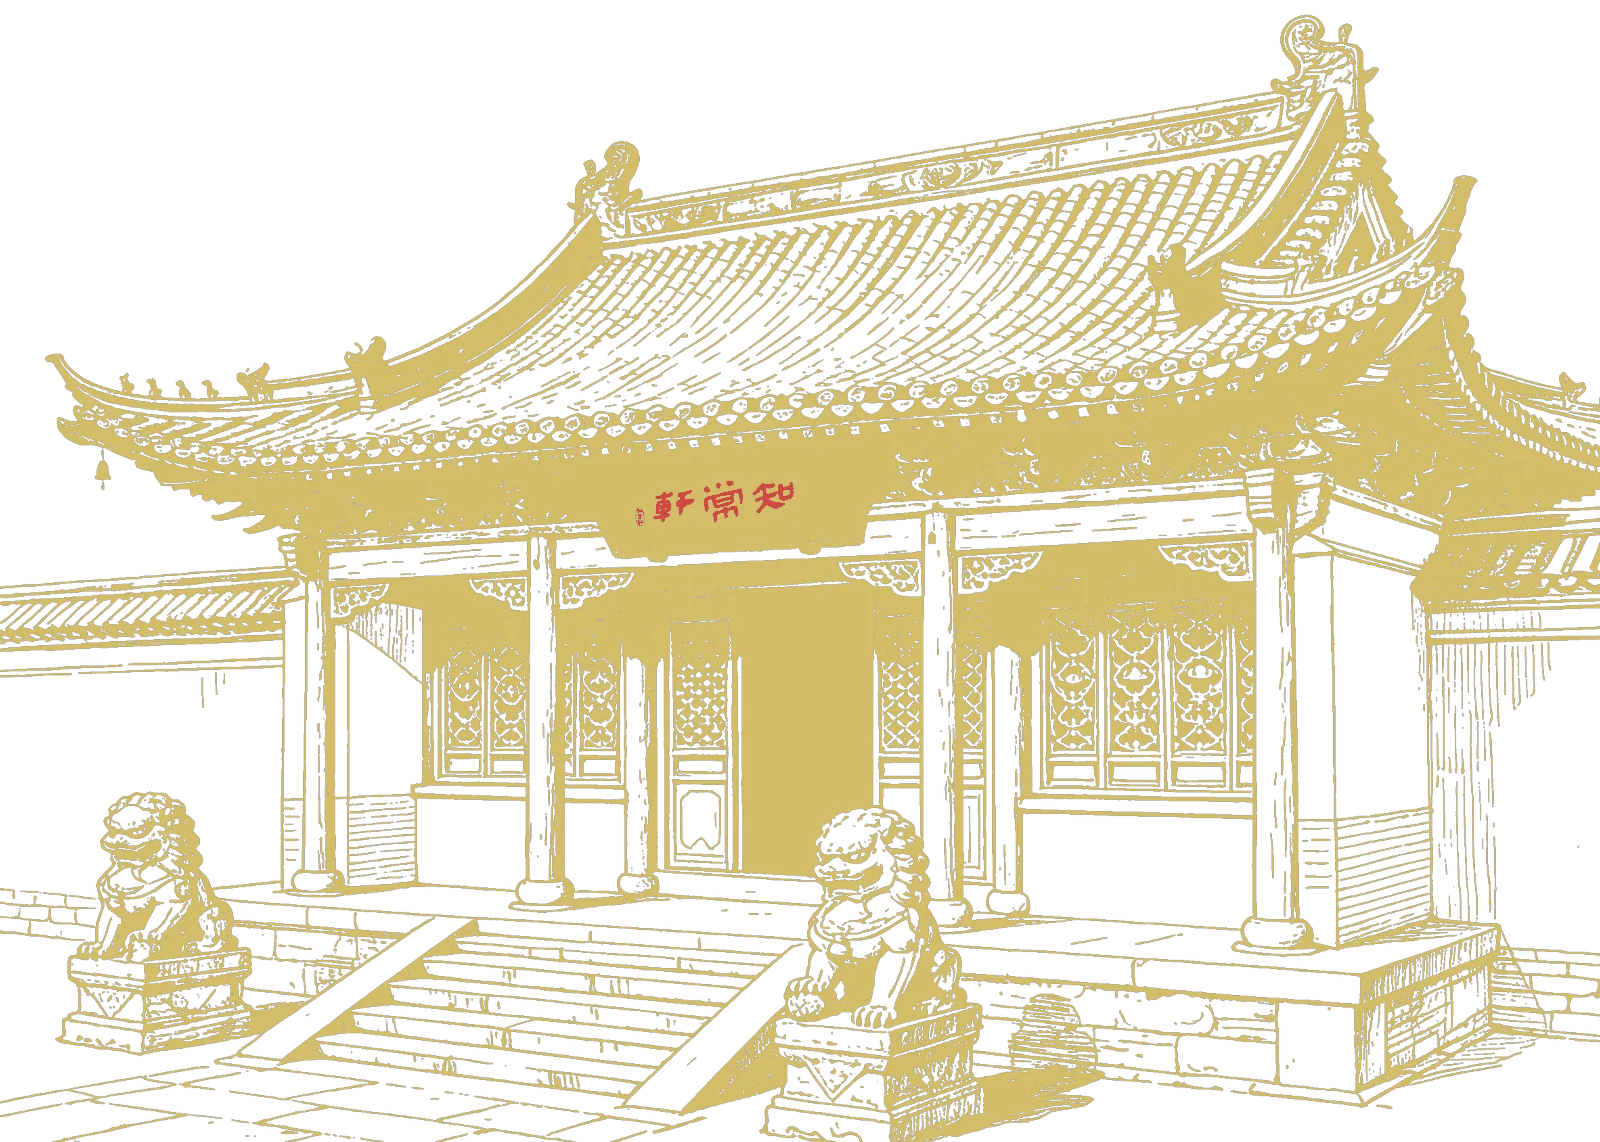
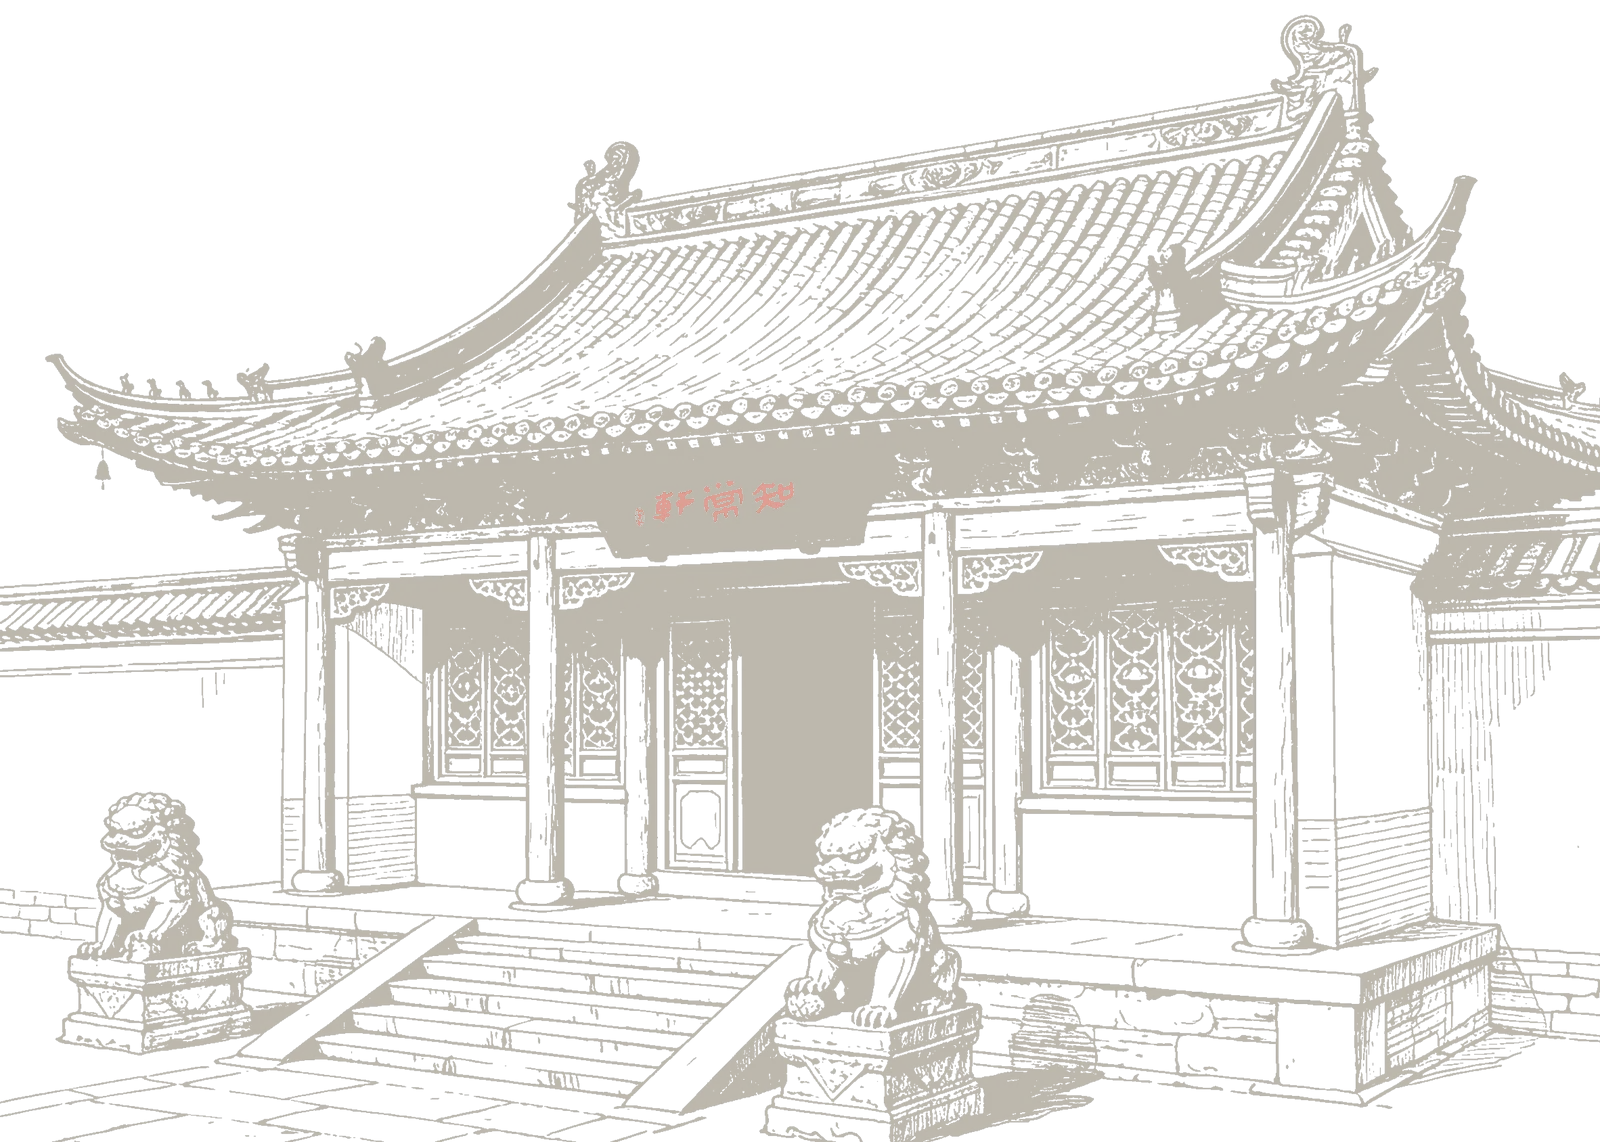
fix(zhichangxuan): hero 背景改水印式淡处理（线条 alpha 0.38、柔和暗金不抢标题、压暗层加强、副文提亮）

diff --git a/009 知常轩/001 项目源码/static/css/style.css b/009 知常轩/001 项目源码/static/css/style.css
@@ -104,8 +104,8 @@ a:hover { text-decoration: underline; }
 /* ---------- 首页 Hero ---------- */
 .hero {
   background:
-    radial-gradient(ellipse 90% 65% at 50% 40%, rgba(8, 8, 20, .45), rgba(8, 8, 20, .2) 55%, transparent 75%),
-    url("../img/hero_bg.webp") center 38% / cover no-repeat,
+    radial-gradient(ellipse 100% 80% at 50% 42%, rgba(8, 8, 20, .58), rgba(8, 8, 20, .3) 55%, transparent 78%),
+    url("../img/hero_bg.webp") center 42% / cover no-repeat,
     linear-gradient(135deg, var(--xuan-qing-deep), var(--xuan-qing) 60%, #2c2c44);
   color: var(--shuang-bai);
   text-align: center;
@@ -146,10 +146,10 @@ a:hover { text-decoration: underline; }
 
 .hero-sub {
   font-size: 14px;
-  color: var(--qing-ci);
+  color: #B3CDD1;
   letter-spacing: 2px;
   margin-bottom: 28px;
-  text-shadow: 0 1px 10px rgba(8, 8, 20, .85);
+  text-shadow: 0 1px 10px rgba(8, 8, 20, .9);
 }
 
 .hero-cta { display: flex; gap: 16px; justify-content: center; }
@@ -632,8 +632,8 @@ a:hover { text-decoration: underline; }
   .hero h1 { font-size: 30px; letter-spacing: 8px; }
   .hero {
     background:
-      radial-gradient(ellipse 100% 75% at 50% 26%, rgba(8, 8, 20, .5), rgba(8, 8, 20, .22) 55%, transparent 78%),
-      url("../img/hero_bg.webp") center 18% / cover no-repeat,
+      radial-gradient(ellipse 110% 85% at 50% 28%, rgba(8, 8, 20, .62), rgba(8, 8, 20, .3) 55%, transparent 80%),
+      url("../img/hero_bg.webp") center 20% / cover no-repeat,
       linear-gradient(135deg, var(--xuan-qing-deep), var(--xuan-qing) 60%, #2c2c44);
   }
   .daily-inner { flex-direction: column; gap: 10px; }

diff --git a/009 知常轩/001 项目源码/process_hero_bg.py b/009 知常轩/001 项目源码/process_hero_bg.py
@@ -6,8 +6,8 @@ import os
 SRC = r"D:\长征文化\002 项目资源\知常轩\知常轩首页背景.png"
 OUT = r"D:\长征文化\009 知常轩\001 项目源码\static\img\hero_bg.png"
 
-GOLD = (235, 205, 94)      # 湘黄提亮 #EBCD5E：深蓝底上更亮
-ZHU = (209, 74, 66)        # 朱红提亮 #D14A42：印章点睛
+GOLD = (212, 175, 95)      # 柔和暗金 #D4AF5F：比标题湘黄低一档，不抢标题
+ZHU = (200, 90, 70)        # 朱红（降饱和）
 
 img = Image.open(SRC).convert("RGBA")
 w, h = img.size
@@ -20,9 +20,9 @@ print("处理后尺寸:", (w, h))
 r, g, b, a = img.split()
 gray = img.convert("L")
 
-# 1) 线条 alpha：反相灰度，黑线 -> 高 alpha，白底 -> 0；整体乘 0.88 让线条清晰
+# 1) 线条 alpha：反相灰度；乘 0.38 做成淡雅水印，只留氛围不抢内容
 inv = ImageChops.invert(gray)
-alpha_ink = inv.point(lambda v: int(v * 0.88))
+alpha_ink = inv.point(lambda v: int(v * 0.38))
 
 # 2) 红色 mask：R 显著高于 G/B 的像素（朱红印章文字）
 red_diff = ImageChops.subtract(r, ImageChops.lighter(g, b))
@@ -33,8 +33,8 @@ transparent = Image.new("RGBA", (w, h), (0, 0, 0, 0))
 gold_layer = Image.new("RGBA", (w, h), GOLD + (255,))
 out = Image.composite(gold_layer, transparent, alpha_ink)
 
-# 4) 红色区域覆盖朱红
-red_layer = Image.new("RGBA", (w, h), ZHU + (255,))
+# 4) 红色区域覆盖朱红（印章也降 alpha，不抢戏）
+red_layer = Image.new("RGBA", (w, h), ZHU + (150,))
 out = Image.composite(red_layer, out, red_mask)
 
 out.save(OUT)
